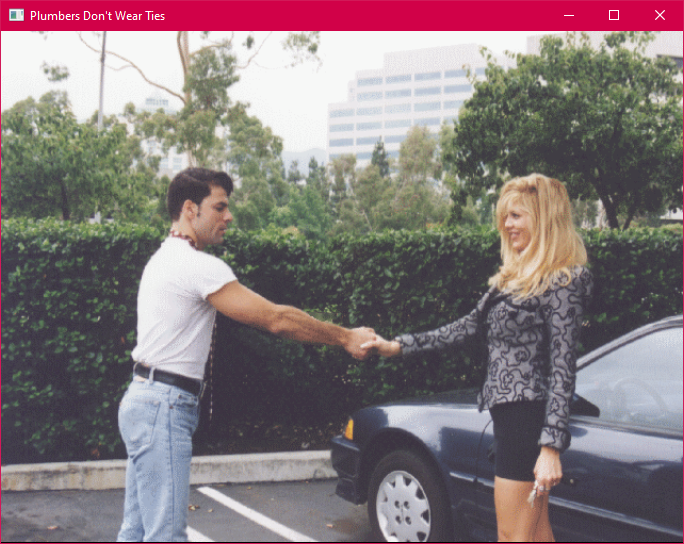
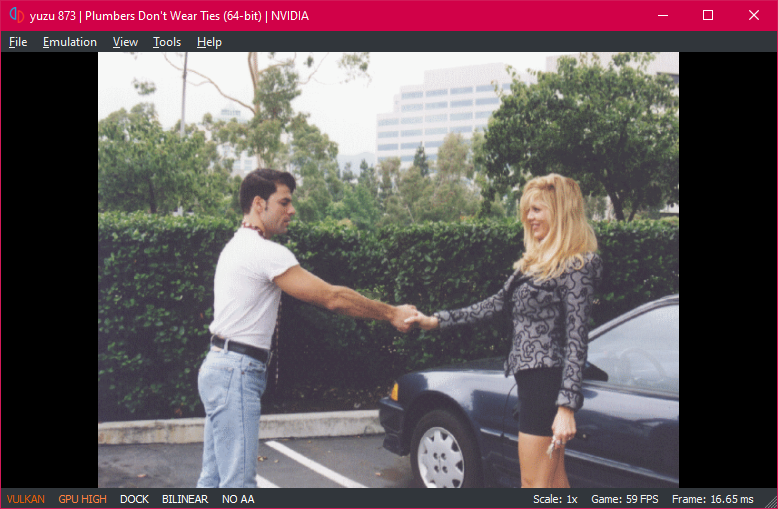
Updated README and screenshots.

diff --git a/README.md b/README.md
@@ -1,49 +1,65 @@
-# Plumbers Don't Wear Ties - SDL2
+# Plumbers Don't Wear Ties - Nintendo Switch
 
 This project is my own implementation of the game `Plumbers Don't Wear Ties` written from scratch, that is, the original program has not been decompiled or reverse-engineered. However, the game still needs the assets from the original PC version to run. The only thing that has been reverse-engineered is the `GAME.BIN` file, done by [Daniel Marschall](https://misc.daniel-marschall.de/spiele/plumbers/?page=pc_gamebin), which contains information about the scenes, background images, sounds and sequences of events.
 
 This game is infamous for being considered one of the worst games ever made. The 3DO version is much more known (relatively speaking), but there was also a very rare Windows version released in 1993. Due to being 16bit, it can't be run on modern PCs.
 
-This is the current state of the project:
+This is a port for the Nintendo Switch based on my SDL2 PC version of the game. This is the current state of the project:
 
-- It has been tested and works fine on Windows and Linux.
-- It could still contain some small bugs here and there that I haven't catched up yet.
-- It can be played with a keyboard or an XInput compatible controller.
-- Rendering, audio and input are implemented with SDL2.
-- Window can be resized to any arbitrary dimensions and set to borderless fullscreen.
+- Rendering and audio are implemented with SDL2.
 - It is possible to advance to the next picture to progress quickly through the game.
+- It could still contain some other small bugs here and there that I haven't catched up yet.
 
 ## How to build
 
-You will need [CMake](https://cmake.org) to build the project.
+The main requirement is to have [devkitPro](https://devkitpro.org).
 
-### Windows with Microsoft Visual C++ Compiler
+Follow the instructions to install devkitPro here: https://devkitpro.org/wiki/Getting_Started.
+You will also need the Switch development package and the libraries `switch-sdl2` and `switch-sdl2_ttf`.
 
-1. Download the latest version of [SDL2 development library (Visual C++ 32/64-bit)](https://www.libsdl.org/download-2.0.php).
-2. Download the latest version of [SDL2_ttf development library (Visual C++ 32/64-bit)](https://www.libsdl.org/projects/SDL_ttf/).
-3. Create a `SDL2` folder at the root of the project.
-4. Place the `lib` and `include` folders of both libraries into the `SDL2` folder.
-5. Configure and build with CMake. After a successful build, the game will appear in the `bin` folder along with a `Data` folder and a `Font.ttf` inside.
+If you use Windows or Ubuntu, here are more detailed instructions.
 
-### Ubuntu and other Debian based Linux distros
+### Windows
 
-1. Install the required dependencies: `sudo apt install build-essential cmake libsdl2-dev libsdl2-ttf-dev`.
-2. Configure and build with CMake. After a successful build, the game will appear in the `bin` folder along with a `Data` folder and a `Font.ttf` inside.
+Even though devkitPro offers a Windows installer, I've had some issues setting it up. It's easier to use WSL. If you want to use the Windows installer anyway, check the link above for instructions.
+
+1. Install [WSL](https://docs.microsoft.com/en-us/windows/wsl/install). By default it will install Ubuntu, which is fine.
+2. Open a WSL terminal and just follow the Ubuntu instructions below. With the difference that, if you want to clone the project into, for example, the `C:\` folder, you will need move to that folder inside the terminal with the command `cd /mnt/c/`.
+
+### Ubuntu and other Debian based linux distros
+
+1. Open the terminal in the folder where you want to clone the project.
+2. Clone it with the command `git clone --branch switch https://github.com/MaikelChan/PlumbersDontWearTies-SDL`. A subfolder called `PlumbersDontWearTies-SDL` will be created containing the project.
+3. Move to that subfolder with `cd PlumbersDontWearTies-SDL`.
+4. Download the latest version of the [custom devkitPro pacman](https://github.com/devkitPro/pacman/releases/tag/v1.0.2), that will be used to download the compilers and libraries to build the project. Once downloaded, put it in the `PlumbersDontWearTies-SDL` folder.
+5. Install devkitPro pacman with this command: `sudo gdebi devkitpro-pacman.amd64.deb`. If gdebi is not found, install it with `sudo apt install gdebi-core`, and then try again installing pacman.
+6. Use the following command to sync pacman databases: `sudo dkp-pacman -Sy`.
+7. Now update packages with `sudo dkp-pacman -Syu`.
+8. Install the Switch development tools with `sudo dkp-pacman -S switch-dev`.
+9. Install SDL2 and SDL2_ttf with `sudo dkp-pacman -S switch-sdl2 switch-sdl2_ttf`.
+10. Set the DEVKITPRO environment variables so the system knows where the compilers and libraries are installed with these commands:
+    - `export DEVKITPRO=/opt/devkitpro`.
+11. To generate Build the project with the command `make -j4`.
+
+After a successful build, you will get a file called `PlumbersDontWearTies-SDL.nro`, which is the main executable.
 
 ## How to run
 
-1. Put all the assets and folders of the original PC version of the game into the `Data` folder that is located along with the game's executable.
+1. Go to the root of your SD card and create a folder named `PlumbersDontWearTies`. If you are using [Yuzu emulator](https://yuzu-emu.org/downloads/), open it, go to the menu `File/Open yuzu Folder`, and the root of the emulated SD card is in the `sdmc` folder.
+2. For legal reasons, you will need to get the original PC game on your own to obtain the assets like graphics and sound effects. Those are not contained in this repository.
+3. Copy all PC game's assets to the `PlumbersDontWearTies` folder that was created earlier.
+4. Grab the `Font.ttf` located in this repository or pick a TTF font file of your liking and rename it `Font.ttf`. Put it inside the `PlumbersDontWearTies` folder. This will be used to render the score in-game.
+5. If everything went fine, you should be able to run the game.
 
 ## How to play
 
-| Keyboard    | Controller | Action                                            |
-|-------------|------------|---------------------------------------------------|
-| 1           | X          | Select first option in a choice selection screen  |
-| 2           | Y          | Select second option in a choice selection screen |
-| 3           | B          | Select third option in a choice selection screen  |
-| Right Arrow | DPad Right | Advance to the next picture                       |
-| Alt+Enter   | Start      | Toggle fullscreen                                 |
-| Esc         | Back       | Exit the game                                     |
+| Button      | Action                                            |
+|-------------|---------------------------------------------------|
+| D-Pad Left  | Select first option in a choice selection screen  |
+| D-Pad Up    | Select second option in a choice selection screen |
+| D-Pad Right | Select third option in a choice selection screen  |
+| A           | Skip to the next picture                          |
+| -           | Exit the game                                     |
 
 ## Screenshots
 
